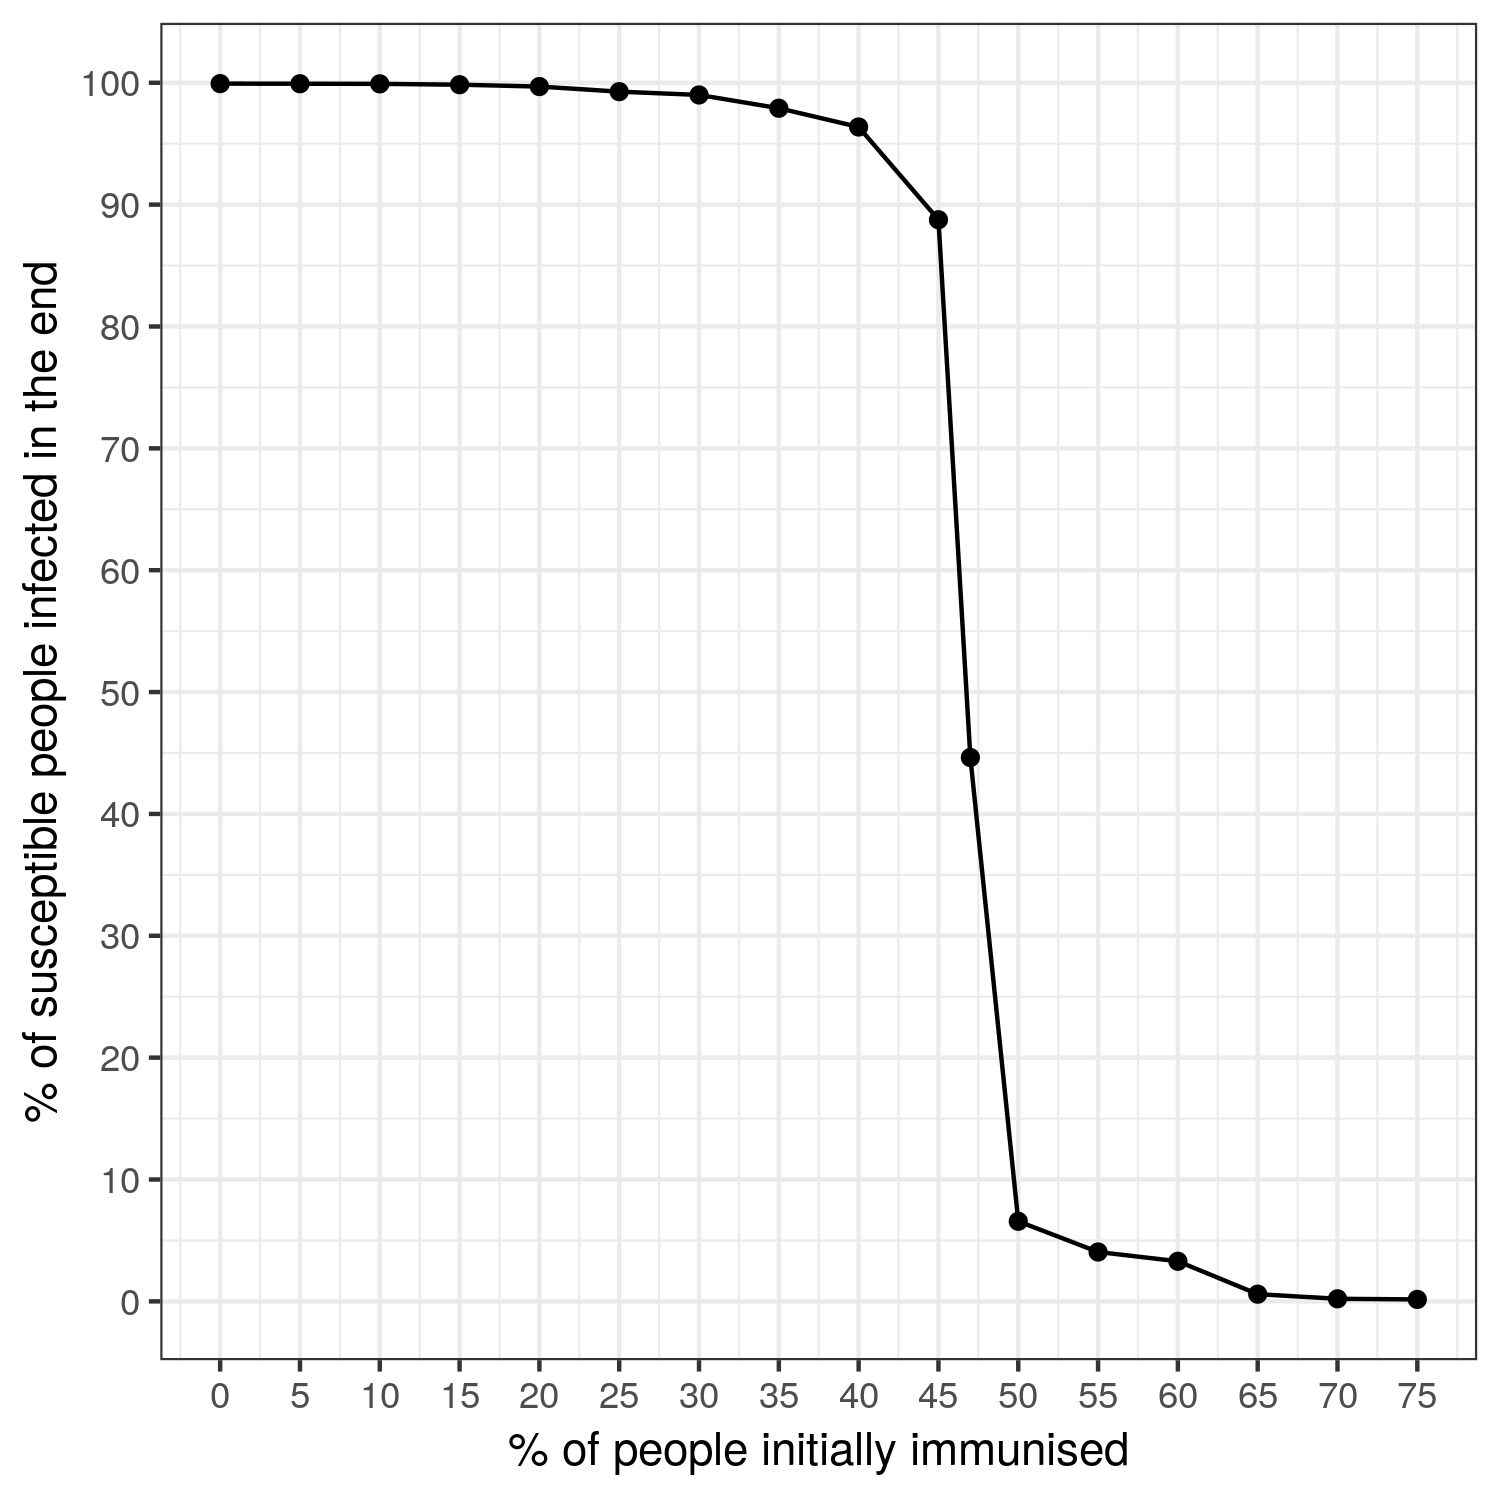
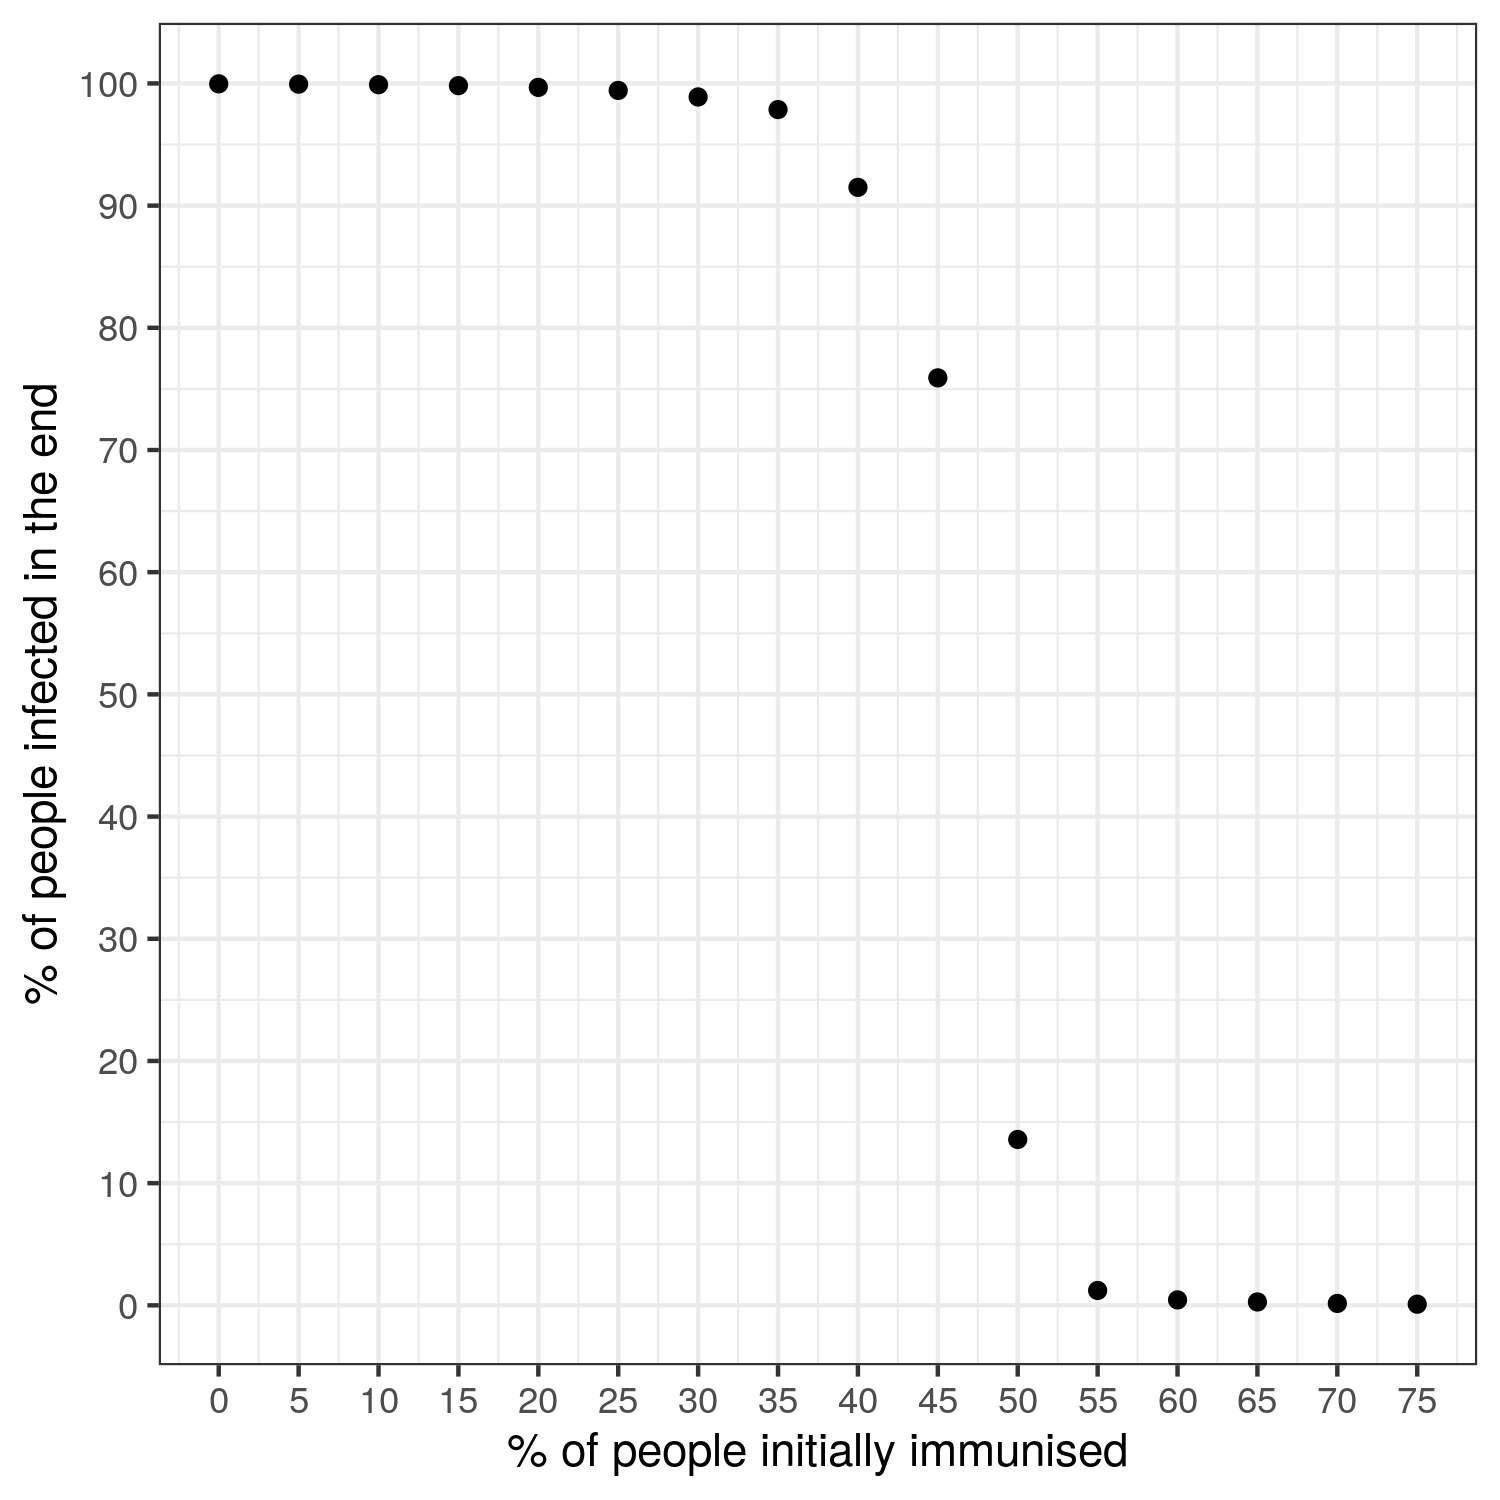
[Q8] finish text

diff --git a/_i18n/fr/_posts/2020-04-01-q8.md b/_i18n/fr/_posts/2020-04-01-q8.md
@@ -66,9 +66,11 @@ Dans les trois premiers cas, on ne peut donc pas parler d’immunité collective
 
 La recherche de ce **gain marginal optimal**, qui fait qu’une faible proportion supplémentaire de personnes immunisées permet de réduire drastiquement le nombre de nouveaux cas d’infections, est le coeur de la recherche du taux d’immunité collective.
 
-Si on reporte sur un graphique la proportion de personnes contaminées à la fin d’une simulation (axe vertical) en fonction de différentes valeurs du taux de personnes immunisées à l’initialisation (axe horizontal), il est possible de déterminer graphiquement le taux d’immunité collective. Avec les paramètres employés, ici très favorables à la diffusion du pathogène, la proportion de personnes saines infectées à la fin de la simulation reste supérieure à 95% pour des taux d'immunisation inférieurs à 40% et on observe une légère baisse à 45% d'immunisation. Il n’y a donc pas d’immunité de groupe dans ces cas là. Un **effet de seuil** significatif apparaît entre 45 et 50% d'immunisés : on voit une chute soudaine de la proportion de personnes infectées de 89% à 7% ! Ainsi, 5% de personnes immunisées supplémentaires au départ entraînent une diminution de plus de 80% des nouveaux cas enregistrés : l’immunité collective a fonctionné !
+Si on reporte sur un graphique la proportion de personnes contaminées à la fin d’une simulation (axe vertical) en fonction de différentes valeurs du taux de personnes immunisées à l’initialisation (axe horizontal), il est possible de déterminer graphiquement le taux d’immunité collective. Avec les paramètres employés, ici très favorables à la diffusion du pathogène, la proportion de personnes saines infectées à la fin de la simulation reste supérieure à 95% pour des taux d'immunisation inférieurs à 40%. Pour 40% et 45% de personnes immunisées initialement, on observe une diminution de la proportion finale de personnes infectées mais celle-ci reste toujours supérieure à 75%. Il n’y a donc pas d’immunité de groupe dans ces cas là. Un **effet de seuil** significatif apparaît entre 45 et 50% d'immunisés : on voit une chute soudaine de la proportion de personnes infectées de 76% à 14% ! Ainsi, **5% de personnes immunisées supplémentaires au départ entraînent une diminution de plus de 60% des nouveaux cas enregistrés** : l’immunité collective a fonctionné ! Et en poussant la proportion de personnes immunisées à 55%, on obtient seulement 1% de cas d'infections.
 
 <img src="/img/posts/Q8-tauxImmuniteCollective-fr.png" class="half-size">
+
+Le graphique ci-dessus présente les moyennes de la proportion finale de personnes saines obtenues lorsqu'on simule 100 fois le modèle pour une valeur donnée de la proportion initiale de personnes immunisées.
 
 
 #### Le simulateur : à vous de jouer !
@@ -76,6 +78,8 @@ Si on reporte sur un graphique la proportion de personnes contaminées à la fin
 On commence par choisir la proportion de personnes immunisées initialement (entre 0 et 100%), puis on sélectionne la manière dont la population sera distribuée dans le monde avec le paramètre **monde-spatialise?** : soit aléatoirement (case décochée), soit spatialement structurée en Est/Ouest (case cochée). On définit les valeurs des paramètres que l’on souhaite tester, puis on initialise l’espace de simulation avec **Initialiser**.
 
 À l’initialisation, un cas infecté est positionné aléatoirement dans la zone. À chaque fois que l’on clique sur initialisation, une nouvelle configuration spatiale apparaît. Le bouton **Simuler** lance la simulation. Des graphiques et des compteurs permettent de visualiser l’évolution de l’état de santé de la population. Selon le taux initial d’immunité de la population, le virus peut ne pas se propager ou s’arrêter dans sa progression. Vous pouvez alors décider d’introduire une ou plusieurs autres personnes contaminées (valeur à déterminer par le curseur **nb-nouvelles-infections**) et valider ce choix (cliquer sur **infecter de nouvelles personnes**). Vous pouvez également choisir de créer de nouveaux cas en cours de simulation, pour représenter par exemple l’importation de nouveaux cas. Les sections qui suivent sont des exemples de scénarios qu'il est possible de tester avec ce simulateur. Vous pouvez par exemple observer commment varie le taux d'immunité collective lorsque le taux de transmission du virus ou la durée de contagiosité évoluent.
+
+**Attention :** le modèle que nous vous présentons est **stochastique**. Cela signifie que certains des mécanismes représentés dans le modèle comportent des **effets aléatoires**. C'est le cas par exemple lors de l'initialisation du modèle : le choix des individus qui seront immunisés au départ est aléatoire, de même que le choix de la première personne infectée. C'est pourquoi lancer la simulation plusieurs fois avec les mêmes valeurs de paramètres donnera toujours des valeurs finales différentes, même si elles restent proches.
 
 *Si la fenêtre du simulateur est tronquée à l'affichage, il vous suffit d'effectuer un zoom arrière.*
 
@@ -92,12 +96,12 @@ onclick="loadIframeSimulator(8, this); return false;">Modèle pour simuler l'imm
 
 Graphe
 
-Ce résultat démontre l’intérêt de rester vigilant en période favorable aux épidémies, même lorsque le taux de personnes immunisées est élevé. Le suivi des cas index et le traitement des contacts potentiels (vaccination ou confinement) reste un moyen largement utilisé pour limiter le rebond local d’une épidémie.
+Ce résultat démontre l’intérêt de **rester vigilant** en période favorable aux épidémies, **même lorsque le taux de personnes immunisées est élevé**. Le suivi des cas index et le traitement des contacts potentiels (vaccination ou confinement) reste un moyen largement utilisé pour limiter le rebond local d’une épidémie.
 
 
 #### L’importance de la régionalisation des études épidémiologiques
 
-Dans les simulations précédentes, nous avons imaginé une immunité de la population selon un scénario de type vaccination, celle-ci étant distribuée aléatoirement dans notre territoire. Nous pourrions imaginer une immunité acquise qui soit spatialement structurée, le virus ayant par exemple circulé dans la zone à l’Est de l’espace de simulation. La question est alors de savoir dans quelles conditions une épidémie pourrait repartir, sachant que le taux de personnes immunisées est relativement faible au niveau de la population générale (28% par exemple), mais spatialement structuré (avec 56% de la population à l’Est qui est immunisée, contre 0% à l'Ouest).
+Dans les simulations précédentes, nous avons imaginé une immunité de la population selon un scénario de type vaccination, celle-ci étant distribuée aléatoirement dans notre territoire. Nous pourrions imaginer une **immunité acquise qui soit spatialement structurée**, le virus ayant par exemple circulé dans la zone à l’Est de l’espace de simulation. La question est alors de savoir dans quelles conditions une épidémie pourrait repartir, sachant que le taux de personnes immunisées est relativement faible au niveau de la population générale (28% par exemple), mais spatialement structuré (avec 56% de la population à l’Est qui est immunisée, contre 0% à l'Ouest).
 
 Pour réaliser cette expérience, vous devez sélectionner dans le simulateur un taux de personnes immunisées inférieur à 50% du total de la population. En effet, lorsqu’ensuite vous allez répartir cette population, celle-ci se concentrera dans la zone Est, donc sur la moitié de la population. Dans l’exemple précédent, cela revient à dire que 56% de la population de la zone Est étant immunisée, cela donne au niveau de l’ensemble de la population un taux de personnes immunisées égal à 28%. Essayez plusieurs configurations initiales avec les mêmes paramètres pour observer les effets sur la diffusion du virus de la localisation de nouveaux cas dans la zone de forte ou de faible immunité.
 
@@ -108,6 +112,7 @@ Dans la vidéo ci-dessous nous avons simulé quatre scénarios différents, pré
 |  20% immunisés<br>premier cas Est  |  30% immunisés<br>premier cas Est  |
 | 20% immunisés<br>premier cas Ouest | 30% immunisés<br>premier cas Ouest |
 
+
 <video controls loop autoplay class="small-size">
   <source src="/img/posts/Q8-spatial.webm" type="video/webm">
 </video>
@@ -116,18 +121,25 @@ Lorsque le premier cas apparaît à l’Ouest de la zone (les deux vidéos du ba
 
 Lorsque le premier cas apparaît à l’Est de la zone(les deux vidéos du haut), le virus circule à “bas bruit” au début de la simulation, la propagation n'est pas très rapide. Cependant, si le taux d'immunité collective de la zone Est n'est pas suffisant (vidéo en haut à gauche), le virus connaît une progression fulgurante dès qu’il parvient dans la zone de l’Ouest où il n’y a plus aucune immunité des individus. Si le taux d'immunité collective de la zone Est est suffisant (vidéo en haut à droite), alors le virus disparaît avant d'avoir atteint la zone Ouest et l'épidémie "ne prend pas" : l'immunité collective de la zone Est a protégé à la fois l'Est et l'Ouest !
 
-En conclusion, ce n'est pas parce qu'une partie de la population semble mieux immunisée qu'une autre qu'elle est nécessairement à l'abri de l'infection, d'autres facteurs entrent en jeu et doivent être surveillés pour maîtriser le risque épidémique.
+En conclusion, **ce n'est pas parce qu'une partie de la population semble mieux immunisée qu'une autre qu'elle est nécessairement à l'abri de l'infection**, d'autres facteurs entrent en jeu et doivent être surveillés pour maîtriser le risque épidémique.
 
 
 #### Pourquoi un taux par pathogène ?
 
 L’immunité collective est intimement liée à la “facilité” avec laquelle un pathogène peut circuler parmi les individus d’une population. Cette “facilité” dépend de nombreux facteurs, tels que le mode de transmission d’hôte à hôte (par contact direct ou indirect, par vecteur...), la résistance du pathogène en dehors de son hôte (sur les vêtements, les meubles...), la durée pendant laquelle l'hôte va être contagieux, etc.
 
-Dans le modèle que nous avons développé, nous avons utilisé trois facteurs principaux qui sont le nombre de contacts par individus, le taux de succès de la transmission lors d’un contact et la durée de la contagiosité. Ces trois paramètres ne sont pas les mêmes en fonction du pathogène que l'on considère, c'est pourquoi le taux d'immunité collective à atteindre pour protéger la population sera différent d'un pathogène à l'autre selon les valeurs de ces paramètres. Ci-dessous, quelques exemples des valeurs de ces paramètres pour plusieurs maladies connues :
+Dans le modèle que nous avons développé, nous avons utilisé **trois facteurs principaux qui influencent le taux d'immunité collective** : le nombre de contacts par individus, le taux de succès de la transmission lors d’un contact et la durée de la contagiosité. Le nombre de contacts par individu dépend de la structure de notre modèle (ici 8 contacts par jour au maximum), mais les deux autres paramètres varient selon le pathogène que l'on veut représenter. C'est pour cela que **le taux d'immunité collective à atteindre pour protéger la population sera différent d'un pathogène à l'autre** selon les valeurs de ces paramètres. Ces paramètres sont liés au fameux taux de reproduction de base, ou R≤sub>0</sub>, qui a fait l'objet d'une [explication sur notre site](https://covprehension.org/2020/03/28/q4.html).
 
-tableau pour ROR, grippe, etc.
+Ci-dessous, quelques exemples des valeurs de ces paramètres pour plusieurs maladies connues :
 
-On voit donc que les principales mesures de contrôle de l’épidémies concernent ces paramètres : on limite les contacts par le confinement, on limite la transmission par les mesures barrières (masque, lavage des mains) et on réduit la période de contagiosité en testant pour mettre en quarantaine les personnes contaminées. Pour rendre compte de l’effet de ces 3 paramètres sur l’immunité collective, il faut changer de modèle afin d’intégrer la possibilité de contacts inter personnels plus importants que dans le modèle précédent.
+|      Pathogène     | Taux de<br>transmission | Durée de<br>contagiosité | Taux d'immunité<br>collective |
+|:------------------:|:-----------------------:|:------------------------:|:-----------------------------:|
+| Grippe saisonnière |           0.23          |          6 jours         |              70%              |
+|      Oreillons     |           1.1           |         10 jours         |              85%              |
+|       Rubéole      |           0.28          |         21 jours         |              90%              |
+|      Rougeole      |           1.9           |          8 jours         |              95%              |
+
+Ainsi, les principales mesures de contrôle de l’épidémies concernent ces paramètres : on limite les contacts par le confinement, on limite la transmission par les mesures barrières (masque, lavage des mains) et on réduit la période de contagiosité en testant pour mettre en quarantaine les personnes contaminées. Pour rendre compte de l’effet de ces trois paramètres sur l’immunité collective, il faut changer de modèle afin d’intégrer la possibilité de contacts inter personnels plus importants que dans le modèle précédent, nous y travaillons et la question correspondante devrait bientôt être en ligne !
 
 
 *Rappel : les modèles développés sur ce site sont des modèles pédagogiques, bien plus simples que les modèles construits et mis en oeuvre par d'autres équipes scientifiques travaillant sur la COVID-19. Ils ne se substituent pas à ces modèles de référence et ne peuvent pas être utilisés à leur place pour mener des expertises, diagnostics ou pronostics. Notre objectif est de contribuer à la création, au sein de la population, d'une meilleure connaissance des moteurs de cette épidémie qui nous concerne toutes et tous.*  
